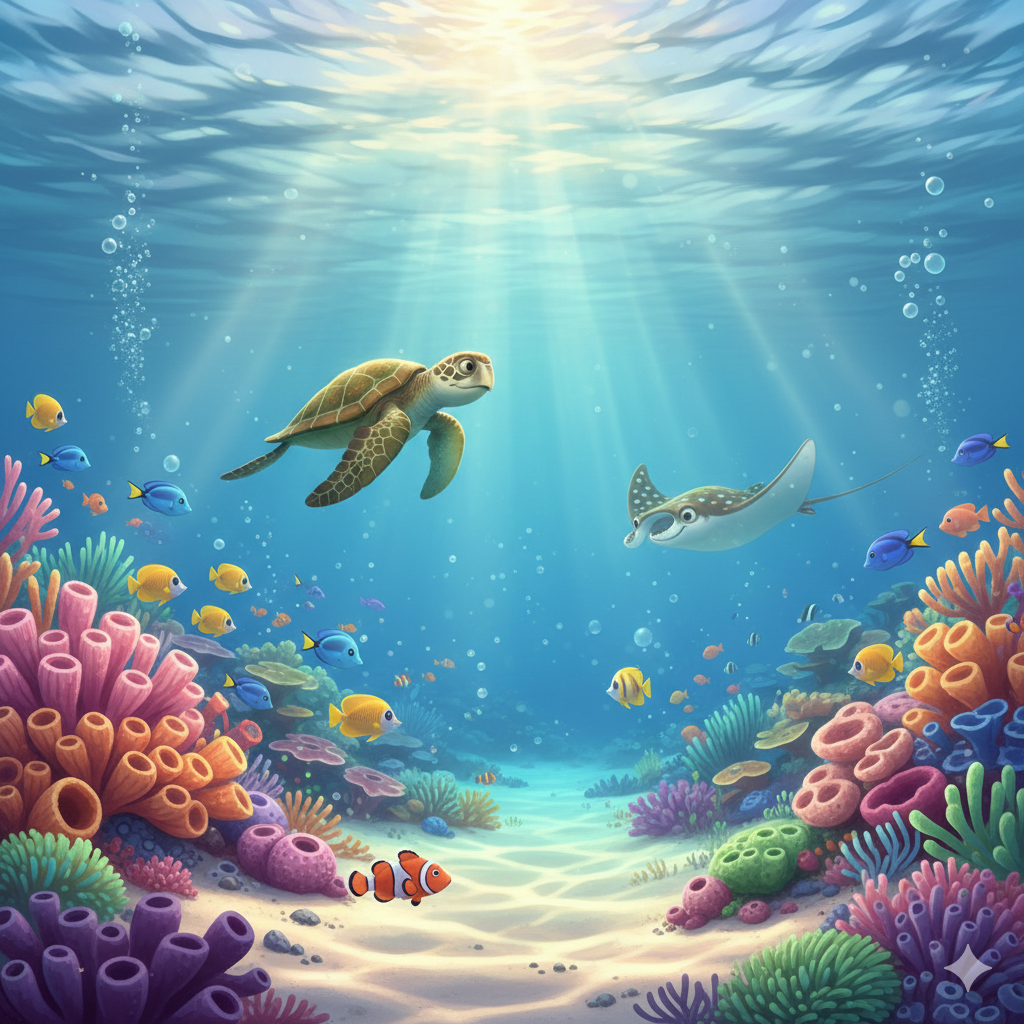
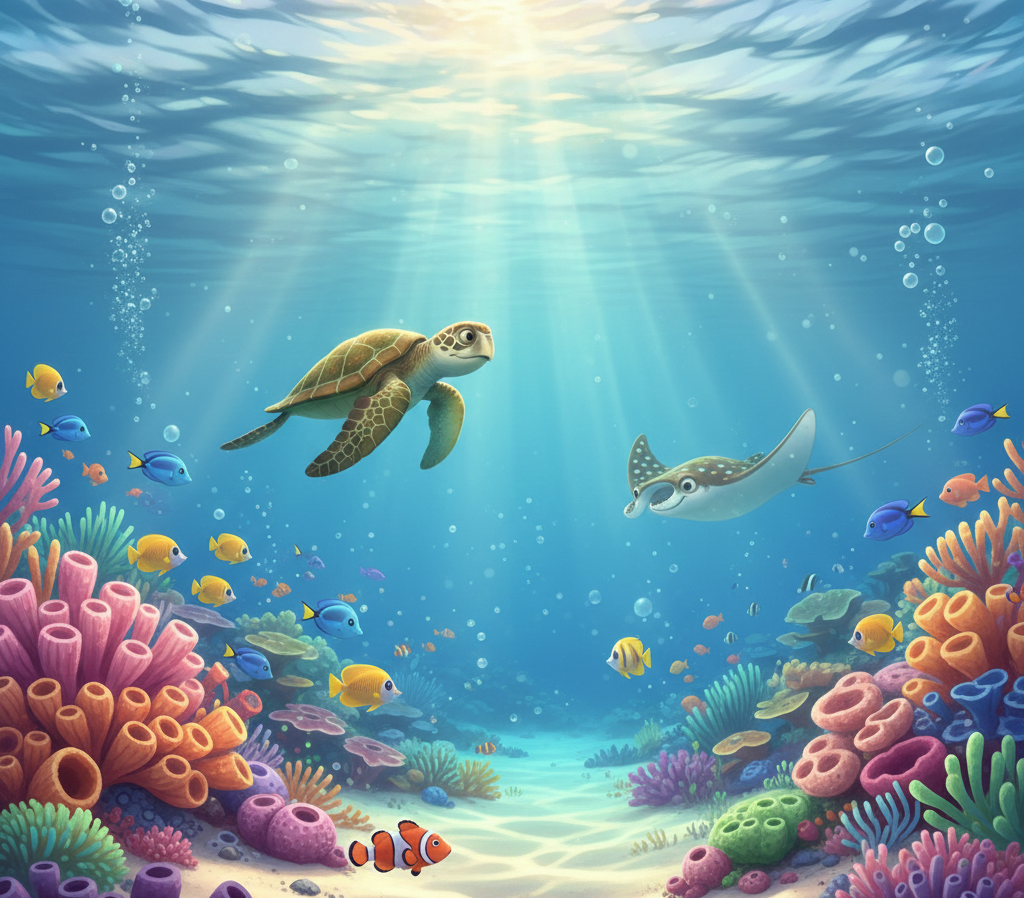
수정7

diff --git a/ui.py b/ui.py
@@ -1,4 +1,6 @@
 import pygame
+from sympy.abc import alpha
+
 from config import WHITE, BLACK, GRAY,GREEN, FONT_PATH, IMAGE_PATH,BLUE
 from utils import get_font, load_image
 
@@ -118,8 +120,8 @@ class NotificationBar:
         self.font = get_font(FONT_PATH, font_size)
         self.fox_icon = None
         try:
-            icon_image = load_image(IMAGE_PATH['FOX_ICON'])
-            self.fox_icon = pygame.transform.scale(icon_image, (height - 10, height - 10))  # 아이콘 크기 조절
+            icon_image = load_image(IMAGE_PATH['FOX_ICON'],alpha=alpha)
+            self.fox_icon = pygame.transform.scale(icon_image, ((1280*(height-10))//731,height - 10))  # 아이콘 크기 조절
         except KeyError:
             print("알림창: fox1.png 이미지를 찾을 수 없습니다.")
 
